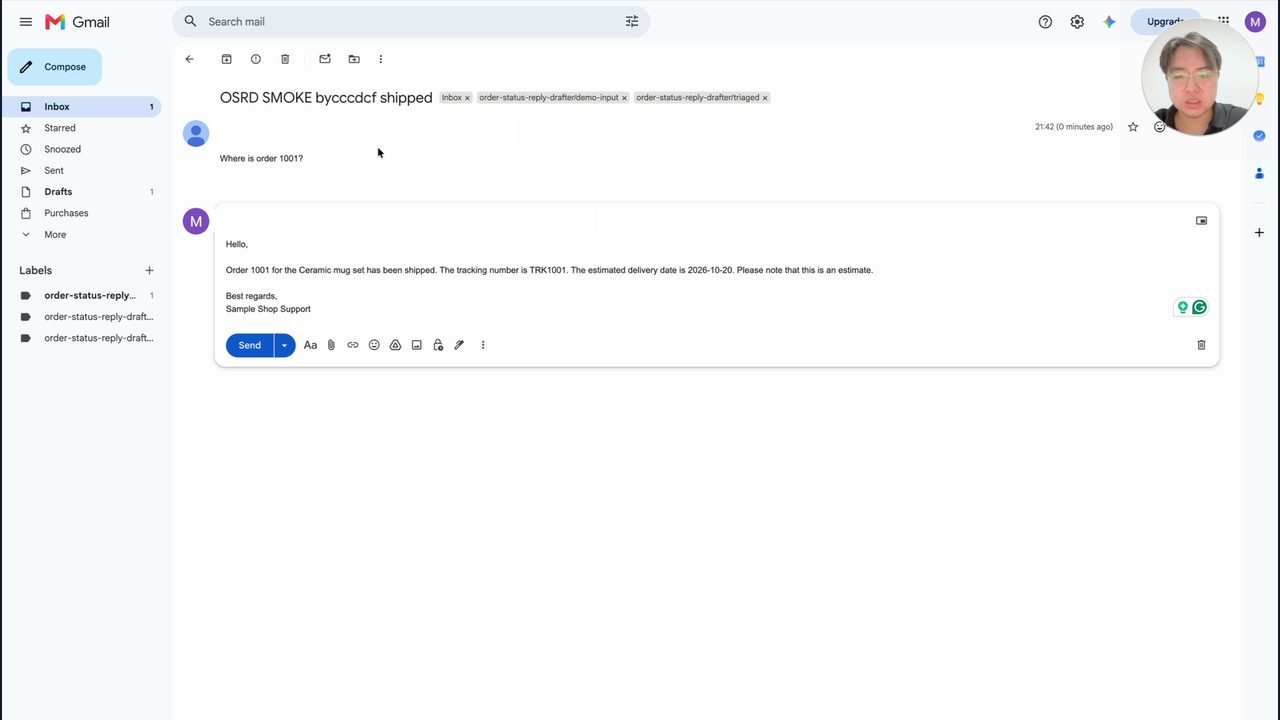
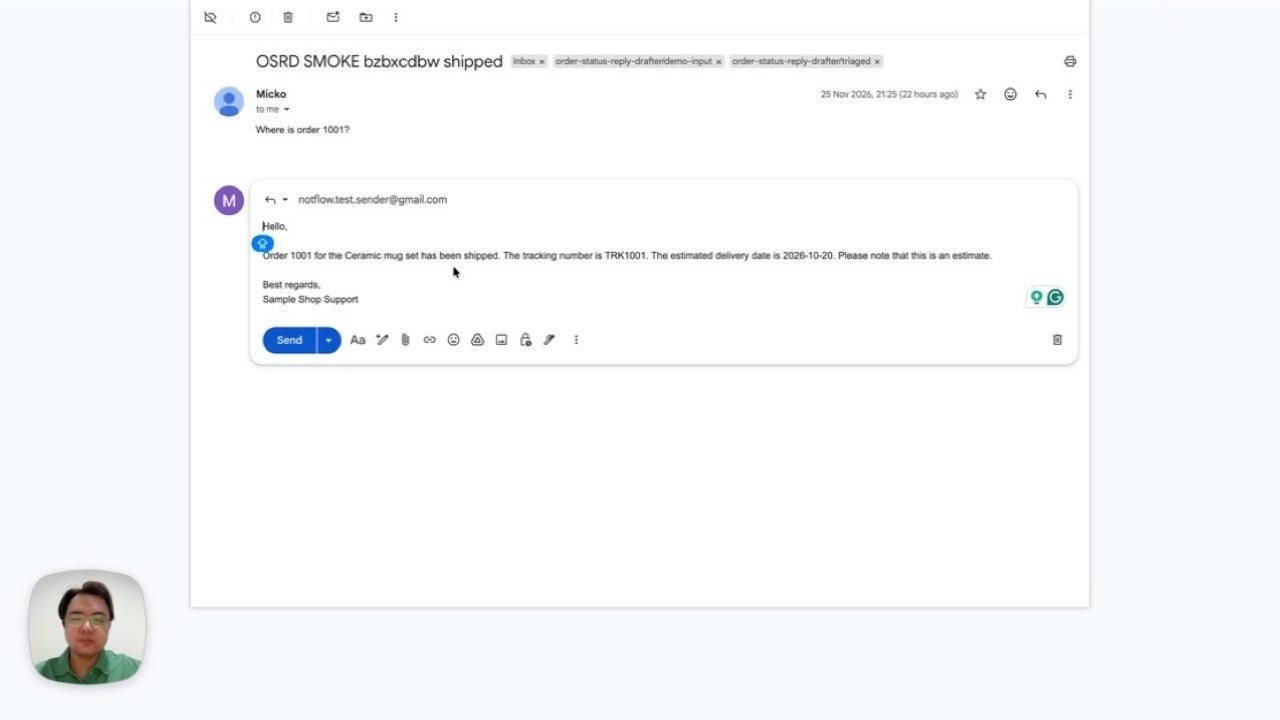
Update Video A/B to 1080p YouTube embeds and new Video A poster

diff --git a/index.html b/index.html
@@ -9,6 +9,7 @@
       content="Order-status emails answered in seconds from your real order data. 6-stage n8n pipeline with atomic PostgreSQL claims, bounded recovery, and human review on every draft. 0 replies sent without a human."
     />
     <meta name="author" content="Micko Sugianto" />
+    <meta name="referrer" content="strict-origin-when-cross-origin" />
     <meta name="theme-color" content="#0b1220" />
     <link
       rel="icon"
@@ -699,6 +700,9 @@
         font-weight: 600;
         font-size: clamp(0.92rem, 1.8vw, 1.12rem);
         color: var(--ink);
+      }
+      #va .cap {
+        left: max(var(--s5), 14.5%);
       }
       .cap small {
         display: block;
@@ -1979,7 +1983,7 @@
           </p>
           <div class="row">
             <button class="btn btn-p" id="watch" type="button">
-              Watch the 2-minute demo
+              Watch the 3-minute demo
             </button>
             <a
               class="btn btn-sec"
@@ -2002,12 +2006,12 @@
               <button
                 class="poster"
                 type="button"
-                data-embed="https://www.loom.com/embed/14d2cffc42b64e948d60d1af9de14328"
-                data-title="Order Status Reply Drafter, 2-minute demo (test data)"
+                data-embed="https://www.youtube-nocookie.com/embed/QH3z75VQRNs"
+                data-title="Order Status Reply Drafter, 3-minute demo (test data)"
                 data-ev="play-video-a"
               >
                 <img
-                  src="video-a-poster.jpg"
+                  src="video-a-poster.jpg?v=4"
                   alt=""
                   width="1280"
                   height="720"
@@ -2017,7 +2021,7 @@
                   ><svg viewBox="0 0 24 24"><path d="M8 5v14l11-7z" /></svg
                 ></span>
                 <span class="cap"
-                  >Play the 2-minute demo (2m 15s)<small
+                  >Play the 3-minute demo (3m 20s)<small
                     >A real Gmail draft from a synthetic test run</small
                   ></span
                 >
@@ -2028,11 +2032,11 @@
               <span
                 >Embed blocked?
                 <a
-                  href="https://www.loom.com/share/14d2cffc42b64e948d60d1af9de14328"
+                  href="https://youtu.be/QH3z75VQRNs"
                   target="_blank"
                   rel="noopener noreferrer"
                   data-track="play-video-a"
-                  >Open on Loom</a
+                  >Open on YouTube</a
                 ></span
               >
             </div>
@@ -2783,7 +2787,7 @@
           <p class="eyebrow reveal">06 &middot; FOR HIRING MANAGERS</p>
           <h2 class="reveal">For hiring managers.</h2>
           <p class="lead reveal">
-            A 3-minute walkthrough of the pipeline, PostgreSQL idempotency
+            A 5-minute walkthrough of the pipeline, PostgreSQL idempotency
             ledger, recovery state machine and test suite, plus readable node
             close-ups and architecture docs below.
           </p>
@@ -2804,8 +2808,8 @@
                 <button
                   class="poster"
                   type="button"
-                  data-embed="https://www.loom.com/embed/6e30e049b58847f48ef64aaf45b57152"
-                  data-title="Order Status Reply Drafter, 3-minute engineering walkthrough (test data)"
+                  data-embed="https://www.youtube-nocookie.com/embed/sZgAU6DDK90"
+                  data-title="Order Status Reply Drafter, 5-minute engineering walkthrough (test data)"
                   data-ev="play-video-b"
                 >
                   <span class="play" aria-hidden="true"
@@ -2813,7 +2817,7 @@
                       <path d="M8 5v14l11-7z" /></svg
                   ></span>
                   <span class="cap"
-                    >Play the engineering walkthrough (3m 19s)<small
+                    >Play the engineering walkthrough (4m 49s)<small
                       >Architecture, PostgreSQL ledger states and test
                       suite</small
                     ></span
@@ -2825,25 +2829,24 @@
                 <span
                   >Embed blocked?
                   <a
-                    href="https://www.loom.com/share/6e30e049b58847f48ef64aaf45b57152"
+                    href="https://youtu.be/sZgAU6DDK90"
                     target="_blank"
                     rel="noopener noreferrer"
                     data-track="play-video-b"
-                    >Open on Loom</a
+                    >Open on YouTube</a
                   ></span
                 >
               </div>
               <details>
                 <summary>Walkthrough summary (text alternative)</summary>
                 <p>
-                  Covers the main workflow (recorded on an earlier canvas
-                  layout; the core nodes and logic are unchanged), the isolated
-                  <code>GetOrder</code> lookup contract, the PostgreSQL state
-                  machine keyed on <code>(mailbox, source_message_id)</code>,
-                  draft-intent recording before Gmail is called, and the offline
-                  and live verification suites. Bounded-recovery and Slack
-                  error-alert sections are shown in the updated canvas visuals
-                  and repo docs.
+                  Walks through the 6-stage pipeline with dedicated recovery and
+                  error sections, the isolated <code>GetOrder</code> lookup
+                  contract, the PostgreSQL state machine keyed on
+                  <code>(mailbox, source_message_id)</code>, draft-intent
+                  recording before Gmail is called, bounded 5-minute automatic
+                  recovery, Slack error alerting, and the offline and live
+                  verification suites.
                 </p>
               </details>
             </div>
@@ -3219,17 +3222,22 @@
           });
         });
 
-        /* video facades: load Loom only on click */
+        /* video facades: load YouTube embed only on click */
         var reduced = matchMedia("(prefers-reduced-motion: reduce)").matches;
         function play(b, preventScrollFocus) {
           var u = b.getAttribute("data-embed");
           if (!u) return;
           track(b.getAttribute("data-ev"));
           var f = document.createElement("iframe");
-          f.src = u + "?hideEmbedTopBar=true&autoplay=1";
           f.title = b.getAttribute("data-title");
-          f.setAttribute("allow", "autoplay; fullscreen; picture-in-picture");
+          f.referrerPolicy = "strict-origin-when-cross-origin";
+          f.setAttribute("referrerpolicy", "strict-origin-when-cross-origin");
+          f.setAttribute(
+            "allow",
+            "accelerometer; autoplay; clipboard-write; encrypted-media; gyroscope; picture-in-picture; web-share; fullscreen",
+          );
           f.setAttribute("allowfullscreen", "");
+          f.src = u + "?autoplay=1&rel=0";
           var p = b.parentNode;
           p.innerHTML = "";
           p.appendChild(f);
